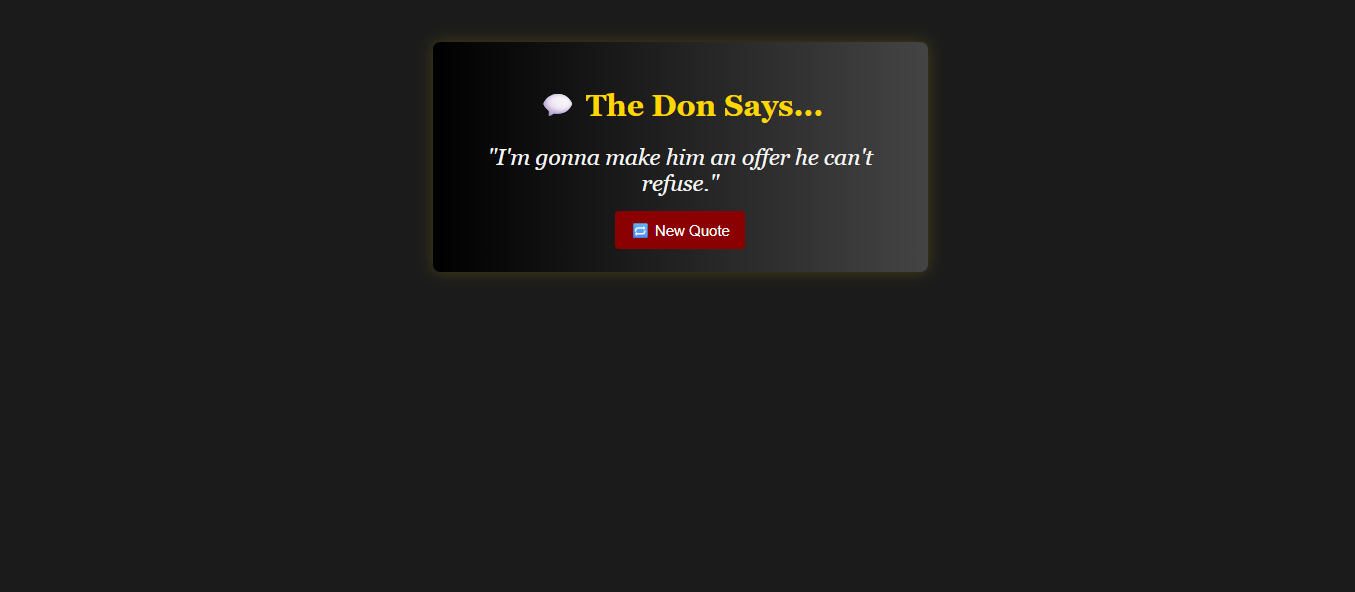
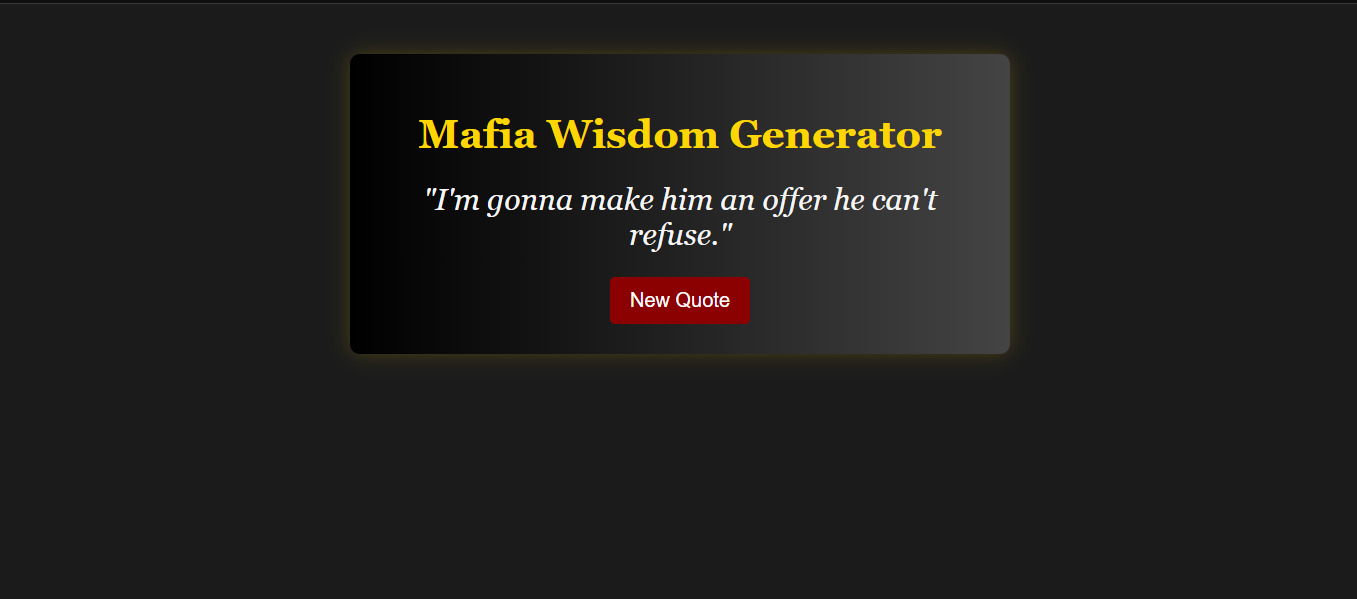
Resolve merge after repo rename

diff --git a/index.html b/index.html
@@ -1,37 +1,17 @@
-<<<<<<< HEAD
 <!DOCTYPE html>
 <html lang="en">
 <head>
   <meta charset="UTF-8" />
   <meta name="viewport" content="width=device-width, initial-scale=1.0"/>
-  <title>The Don Quotes App</title>
+  <title>Mafia Wisdom Generator</title>
   <link rel="stylesheet" href="styles.css" />
 </head>
 <body>
   <div class="container">
-    <h1>💬 The Don Says...</h1>
+    <h1>Mafia Wisdom Generator</h1>
     <blockquote id="quote">"I'm gonna make him an offer he can't refuse."</blockquote>
     <button onclick="generateQuote()">New Quote</button>
   </div>
   <script src="script.js"></script>
 </body>
 </html>
-=======
-<!DOCTYPE html>
-<html lang="en">
-<head>
-  <meta charset="UTF-8" />
-  <meta name="viewport" content="width=device-width, initial-scale=1.0"/>
-  <title>The Don Quotes App</title>
-  <link rel="stylesheet" href="styles.css" />
-</head>
-<body>
-  <div class="container">
-    <h1>💬 The Don Says...</h1>
-    <blockquote id="quote">"I'm gonna make him an offer he can't refuse."</blockquote>
-    <button onclick="generateQuote()">New Quote</button>
-  </div>
-  <script src="script.js"></script>
-</body>
-</html>
->>>>>>> 9d4376628c331718a5263bba8ac8939067774ba6

diff --git a/README.md b/README.md
@@ -3,7 +3,7 @@
 A simple web app that displays random quotes from The Godfather movies, with a classic dark-gold theme.
 
 Live demo:  
-https://greicianegaleoti.github.io/don-quotes-app/
+https://greicianegaleoti.github.io/mafia-wisdom-generator/
 
 ---
 
